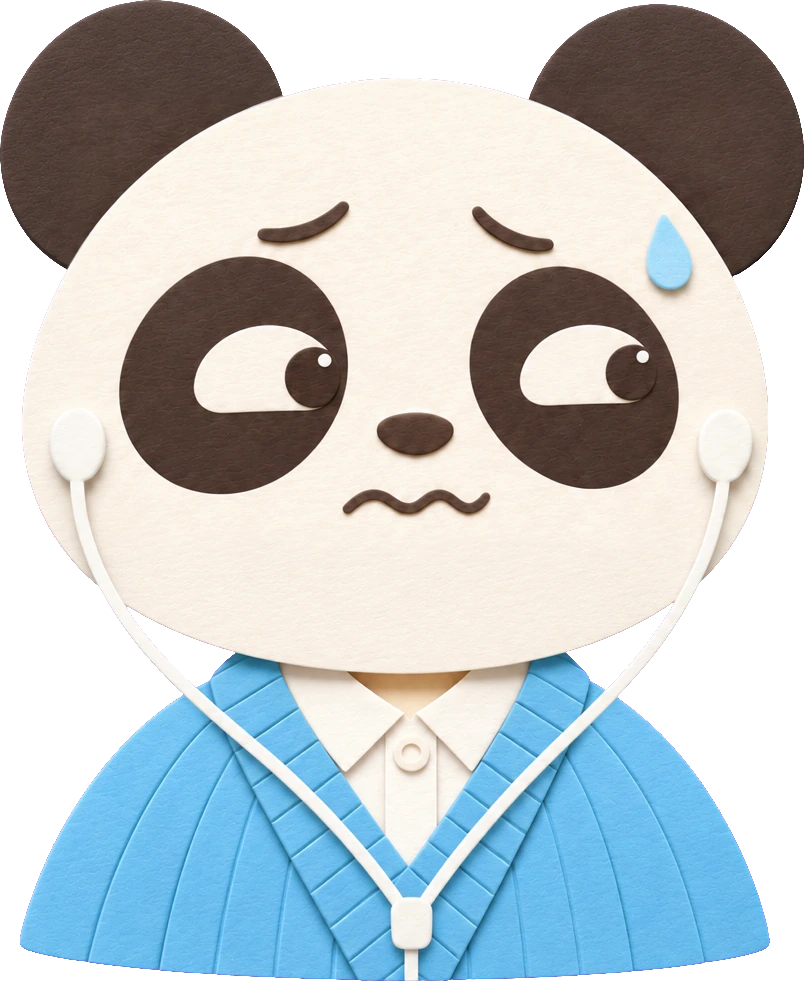
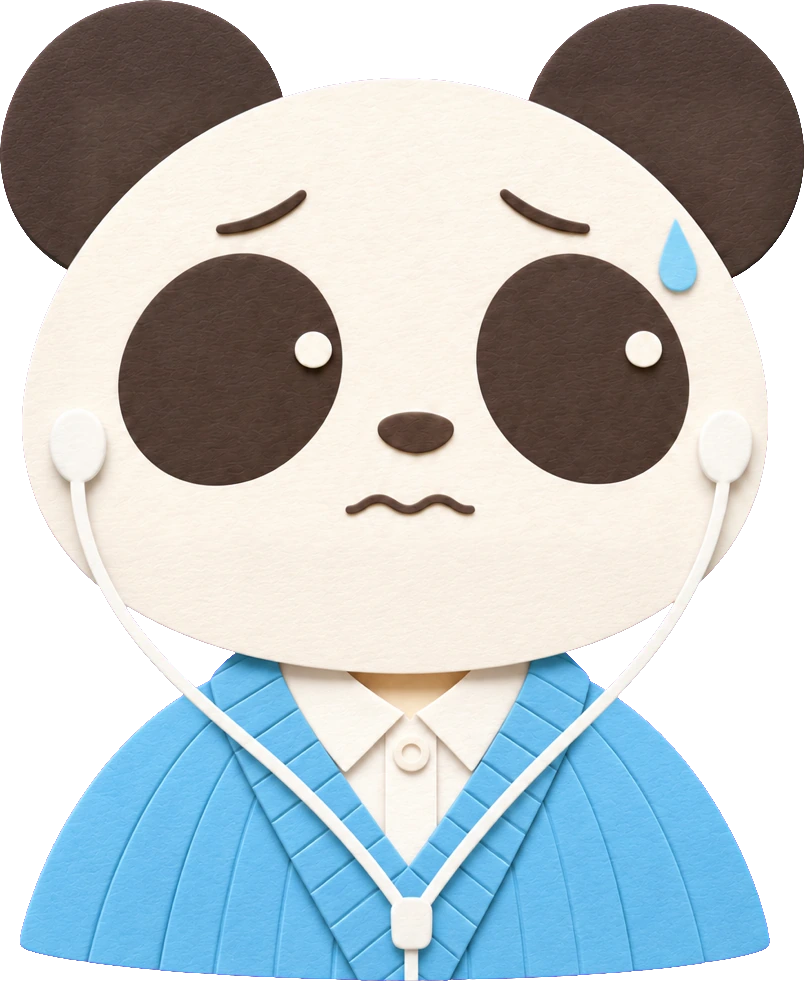
fix(M1): 미르님 지적 4가지 — 쪽지를 체크리스트로(펼침·지움·접힘 같은 종이·비율), 판다 당황 눈 무늬 유지, 곰 아빠 신발 신기 새로, 판다 서기 이어폰. 스튜디오 no-cache(같은 이름 그림 갱신)

diff --git a/engine/studio.py b/engine/studio.py
@@ -322,7 +322,7 @@ class H(BaseHTTPRequestHandler):
     def log_message(self, *a): pass
     def send(self, code, body, ctype="text/html; charset=utf-8"):
         b = body if isinstance(body, bytes) else body.encode("utf-8")
-        self.send_response(code); self.send_header("Content-Type", ctype); self.send_header("Content-Length", str(len(b))); self.end_headers(); self.wfile.write(b)
+        self.send_response(code); self.send_header("Content-Type", ctype); self.send_header("Content-Length", str(len(b))); self.send_header("Cache-Control", "no-cache"); self.end_headers(); self.wfile.write(b)  # no-cache: 같은 이름으로 고친 그림이 옛것으로 안 보이게
     def do_GET(self):
         p = urllib.parse.unquote(self.path.split("?")[0])  # 한글 파일 이름
         if p == "/": return self.send(200, page())
